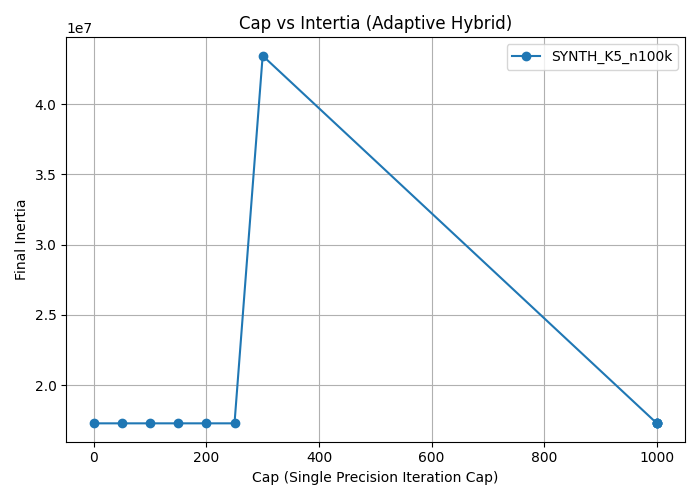
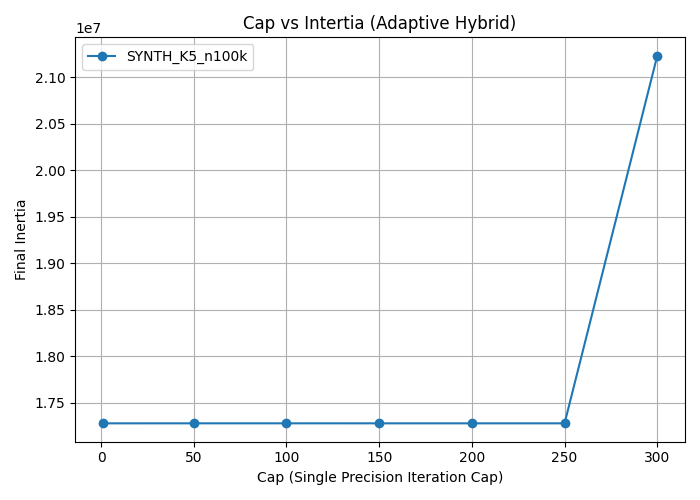
push good results

diff --git a/example.py b/example.py
@@ -1,5 +1,4 @@
 import numpy as np
-import time
 import matplotlib.pyplot as plt
 import pandas as pd
 from aoclda.sklearn import skpatch
@@ -14,6 +13,7 @@ import sys
 import os
 import pathlib
 from sklearn.decomposition import PCA
+import time
 
 DATA_DIR = pathlib.Path(".")         
 RESULTS_DIR = pathlib.Path("Results")
@@ -24,6 +24,9 @@ PLOTS_DIR.mkdir(exist_ok = True)
 
 CONV_DIR = pathlib.Path("ConvergencePlots")
 CONV_DIR.mkdir(exist_ok=True)
+
+RUN_EXPERIMENT_A = True
+RUN_EXPERIMENT_B = True
 
 def load_3d_road(n_rows=1_000_000):
     path = DATA_DIR / "3D_spatial_network.csv"
@@ -281,33 +284,34 @@ def run_one_dataset(ds_name: str, X_full: np.ndarray, y_full, rows_A, rows_B):
                 initial_fit = init_kmeans.fit(X_cur)
                 initial_centers = init_kmeans.cluster_centers_
 
-                for rep in range(n_repeats):
-
-                    # Full double precision run
-                    centers_double, labels_double, iters_double_tot, iters_single_tot, elapsed, mem_MB_double, ari,  dbi, inertia = run_full_double(
-                    X_cur, initial_centers, n_clusters, max_iter, tol_fixed_A, y_true_cur
-                    )
-
-                    rows_A.append([ds_name, n_samples, n_clusters, n_features, "A", 0, 1e-16,  iters_single_tot, iters_double_tot,"Double",  elapsed, mem_MB_double, 
-                                        ari,  dbi, inertia])
-                                 
-                    print(f" [Double] {rows_A}", flush=True) 
-
-                option = "A"
-                for cap in cap_grid:
+                if RUN_EXPERIMENT_A:
                     for rep in range(n_repeats):
 
+                    # Full double precision run
+                        centers_double, labels_double, iters_double_tot, iters_single_tot, elapsed, mem_MB_double, ari,  dbi, inertia = run_full_double(
+                        X_cur, initial_centers, n_clusters, max_iter, tol_fixed_A, y_true_cur
+                        )
+
+                        rows_A.append([ds_name, n_samples, n_clusters, n_features, "A", 0, 1e-16,  iters_single_tot, iters_double_tot,"Double",  elapsed, mem_MB_double, 
+                                        ari,  dbi, inertia])
+                                 
+                        print(f" [Double] {rows_A}", flush=True) 
+
+                    option = "A"
+                    for cap in cap_grid:
+                        for rep in range(n_repeats):
+
                         # Adaptive hybrid run
-                        labels_hybrid, centers_hybrid, iters_single, iters_double, elapsed_hybrid, mem_MB_hybrid, ari_hybrid, dbi_hybrid, inertia_hybrid = run_adaptive_hybrid(
-                        X_cur, initial_centers, n_clusters, max_iter_total = max_iter_A, single_iter_cap=cap, tol_single = tol_fixed_A, tol_double=tol_fixed_A, y_true = y_true_cur, seed = rep
+                            labels_hybrid, centers_hybrid, iters_single, iters_double, elapsed_hybrid, mem_MB_hybrid, ari_hybrid, dbi_hybrid, inertia_hybrid = run_adaptive_hybrid(
+                            X_cur, initial_centers, n_clusters, max_iter_total = max_iter_A, single_iter_cap=cap, tol_single = tol_fixed_A, tol_double=tol_fixed_A, y_true = y_true_cur, seed = rep
                             )
                         
-                        print(f"Cap: {cap}, Iter Single: {iters_single}, Iter Double: {iters_double}, Toal: {iters_single + iters_double}")
+                            print(f"Cap: {cap}, Iter Single: {iters_single}, Iter Double: {iters_double}, Toal: {iters_single + iters_double}")
                     
-                        rows_A.append([ds_name, n_samples, n_clusters, n_features, "A", cap, tol_fixed_A, iters_single, iters_double, "AdaptiveHybrid", elapsed_hybrid, mem_MB_hybrid,
+                            rows_A.append([ds_name, n_samples, n_clusters, n_features, "A", cap, tol_fixed_A, iters_single, iters_double, "AdaptiveHybrid", elapsed_hybrid, mem_MB_hybrid,
                                         ari_hybrid, dbi_hybrid, inertia_hybrid ])
                         
-                        print(f" [Hybrid] {rows_A}", flush=True) 
+                            print(f" [Hybrid] {rows_A}", flush=True) 
                         # plot clusters
                         # if rep == 0:
                         #     X_vis, centers_vis = pca_2d_view(X_cur, centers_hybrid)
@@ -316,33 +320,36 @@ def run_one_dataset(ds_name: str, X_full: np.ndarray, y_full, rows_A, rows_B):
                         #     plot_clusters(X_vis, labels_hybrid, centers_vis, title=title, filename=filename)
                     
 
-
+                    if RUN_EXPERIMENT_B:
                     # Full double precision baseline for Experiment B
-                for rep in range(n_repeats):
-                        centers_double, labels_double, iters_double_tot, iters_single_tot, elapsed, mem_MB_double, ari, dbi, inertia = run_full_double(
+                        for rep in range(n_repeats):
+                            centers_double, labels_double, iters_double_tot, iters_single_tot, elapsed, mem_MB_double, ari, dbi, inertia = run_full_double(
                             X_cur, initial_centers, n_clusters, max_iter_B, tol_double_B, y_true_cur
                             )
 
-                        rows_B.append([ ds_name, n_samples, n_clusters, n_features, "B", 0, tol_double_B,  iters_single_tot, iters_double_tot, "Double", elapsed, mem_MB_double,
+                        rows_B.append([ ds_name, n_samples, n_clusters, n_features, "B", tol_double_B,  iters_single_tot, iters_double_tot, "Double", elapsed, mem_MB_double,
                                         ari, dbi, inertia])
                         print(f"[Double Baseline - Exp B] tol={tol_double_B} | iter_double={iters_double_tot}")
 
-                option = "B"
-                for tol_s in tol_single_grid:
-                    for rep in range(n_repeats):
-           
-                            # Adaptive hybrid run
-                            labels_hybrid, centers_hybrid, iters_single, iters_double, elapsed_hybrid, mem_MB_hybrid, ari_hybrid, dbi_hybrid, inertia_hybrid = run_adaptive_hybrid(
-                                X_cur, initial_centers, n_clusters, max_iter_total=max_iter_B, tol_single = tol_s, tol_double = tol_double_B, single_iter_cap=max_iter_B, y_true= y_true_cur, seed = rep
-                            )
 
-                            print(f"Tol_single: {tol_s}, Iter Single: {iters_single}, Iter Double: {iters_double}, Total: {iters_single + iters_double}")
+
+
+
+                        option = "B"
+                        for tol_s in tol_single_grid:
+                            for rep in range(n_repeats):
+                            # Adaptive hybrid run
+                                labels_hybrid, centers_hybrid, iters_single, iters_double, elapsed_hybrid, mem_MB_hybrid, ari_hybrid, dbi_hybrid, inertia_hybrid = run_adaptive_hybrid(
+                                    X_cur, initial_centers, n_clusters, max_iter_total=max_iter_B, tol_single = tol_s, tol_double = tol_double_B, single_iter_cap=max_iter_B, y_true= y_true_cur, seed = rep
+                                )
+
+                                print(f"Tol_single: {tol_s}, Iter Single: {iters_single}, Iter Double: {iters_double}, Total: {iters_single + iters_double}")
                            
 
-                            rows_B.append([ds_name, n_samples, n_clusters, n_features, "B", max_iter_B, tol_s,  iters_single, iters_double, "AdaptiveHybrid", elapsed_hybrid, mem_MB_hybrid,
+                                rows_B.append([ds_name, n_samples, n_clusters, n_features, "B", tol_s,  iters_single, iters_double, "AdaptiveHybrid", elapsed_hybrid, mem_MB_hybrid,
                                         ari_hybrid, dbi_hybrid, inertia_hybrid])
                             
-                            print(f" [Hybrid] {rows_B}", flush=True) 
+                                print(f" [Hybrid] {rows_B}", flush=True) 
 
                             # plot clusters
                             # if rep == 0:
@@ -361,6 +368,14 @@ synth_specs = [
 
 rows_A = []
 rows_B= []
+
+
+for tag, n, d, k, seed in synth_specs:
+    X, y = generate_data(n, d, k, random_state=seed)
+    print(f"[SYNTH] {tag:14s}  shape={X.shape}  any_NaN={np.isnan(X).any()}",
+          flush=True)
+    run_one_dataset(tag, X, y, rows_A, rows_B)
+
 
 columns_A = [
     'DatasetName', 'DatasetSize', 'NumClusters', 'NumFeatures',
@@ -392,7 +407,6 @@ print("- hybrid_kmeans_results_expB.csv")
    # all_rows += run_one_dataset(tag, X_real, y_real)
 
 
-results_df = pd.DataFrame(all_rows, columns=columns)
 
 # === SUMMARY: Experiment A ===
 print("\n==== SUMMARY: EXPERIMENT A ====")
@@ -412,5 +426,6 @@ plot_hybrid_cap_vs_inertia()
 plot_cap_vs_time()
 
 
-print("\nResults saved to 'hybrid_kmeans_results.csv'")
+print("\nResults saved to 'hybrid_kmeans_results_expA.csv")
+print("\nResults saved to 'hybrid_kmeans_results_expB.csv")
 print(os.getcwd())
